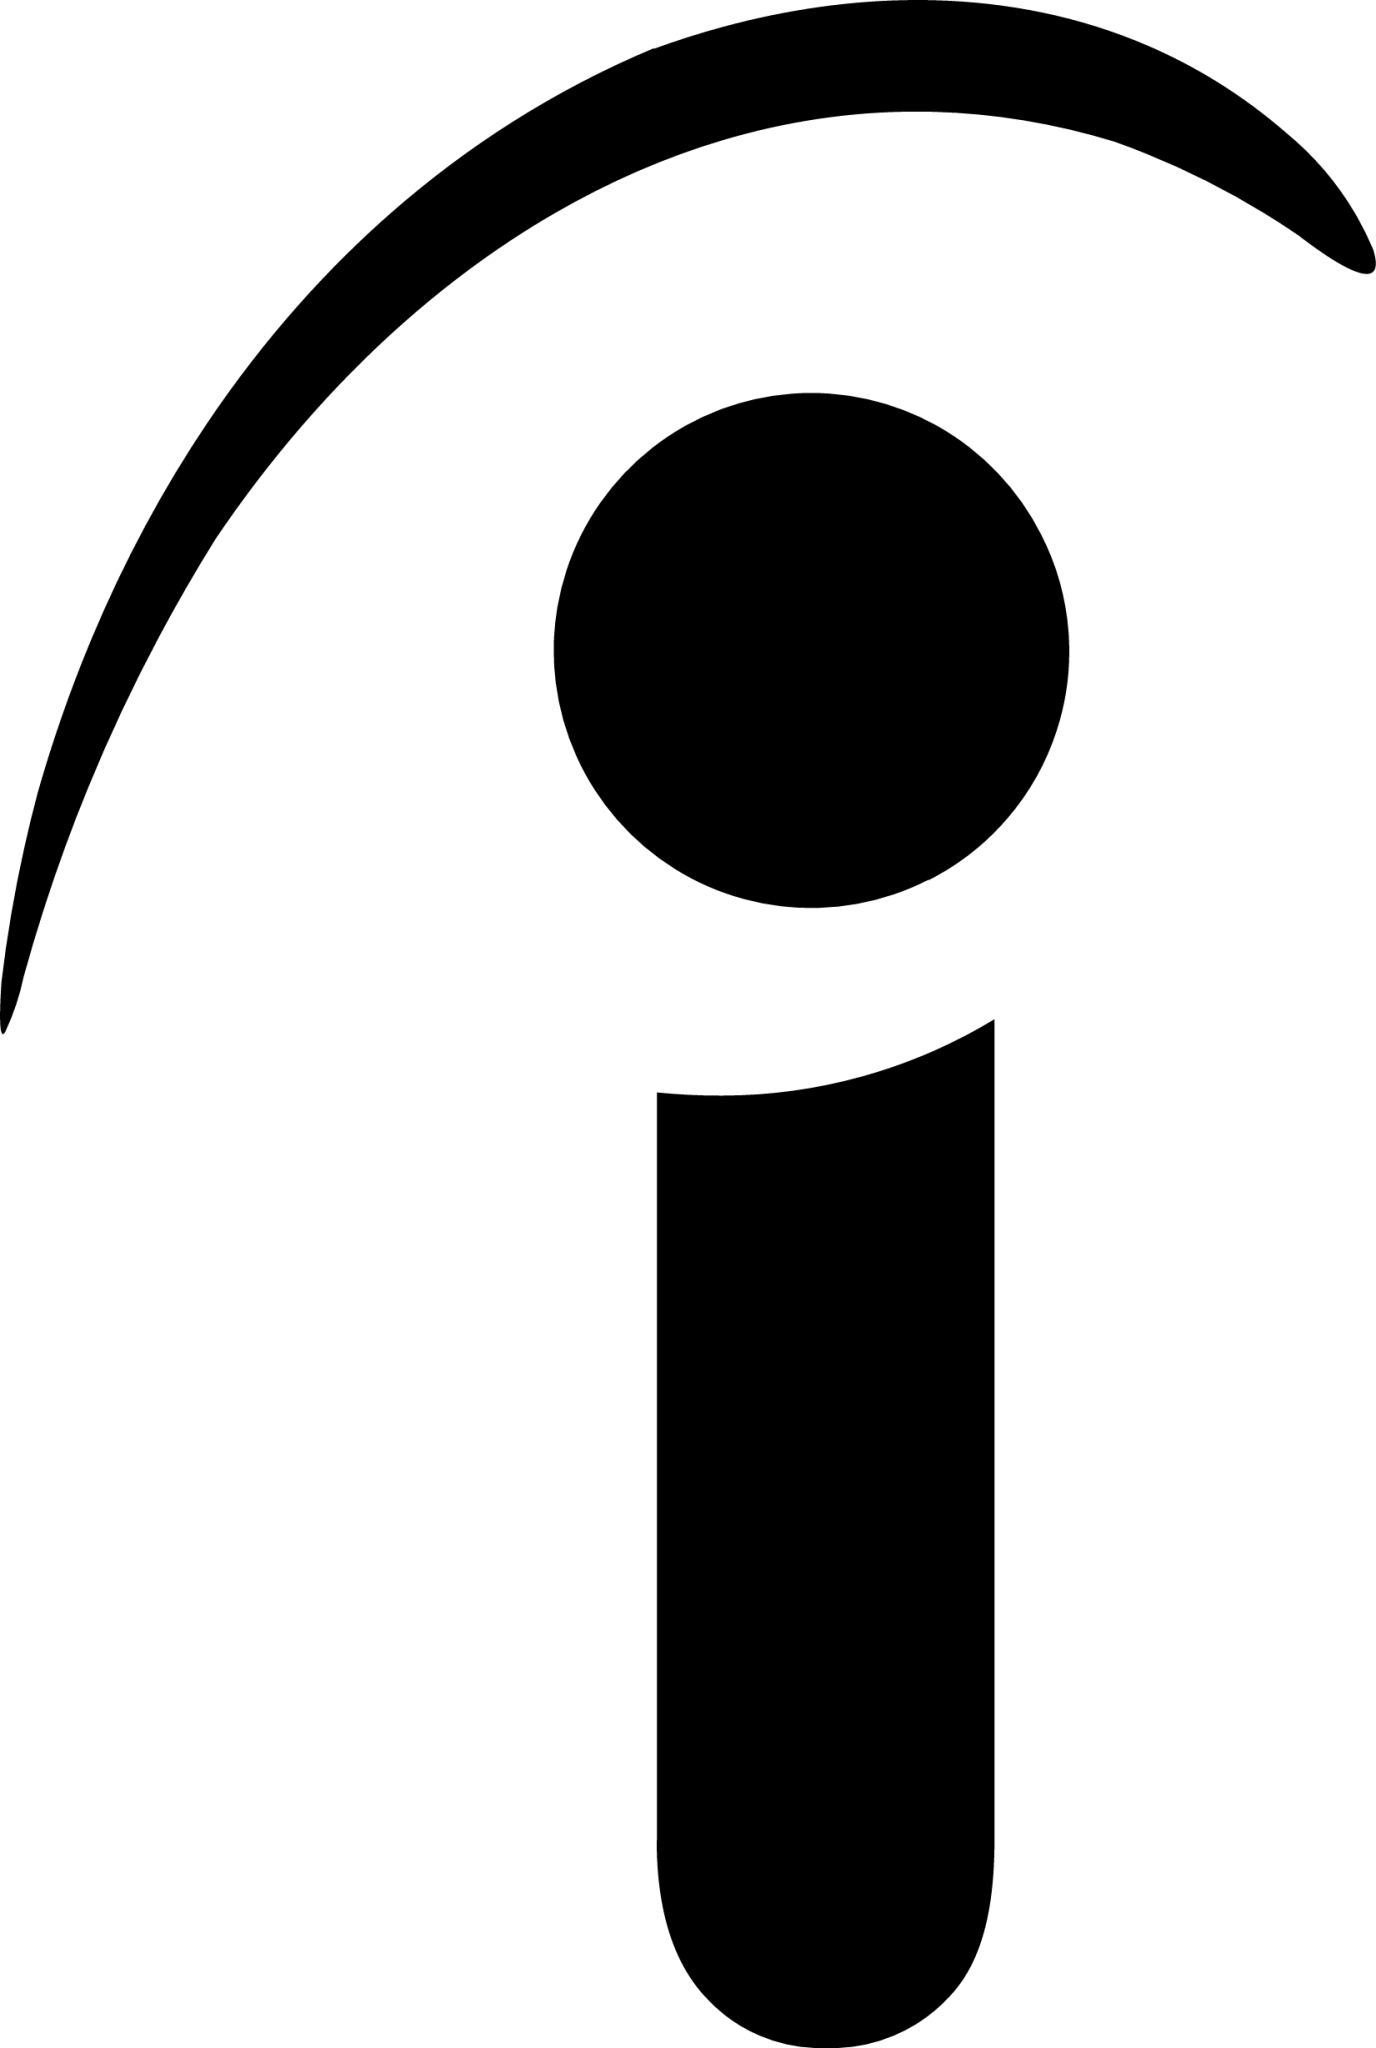
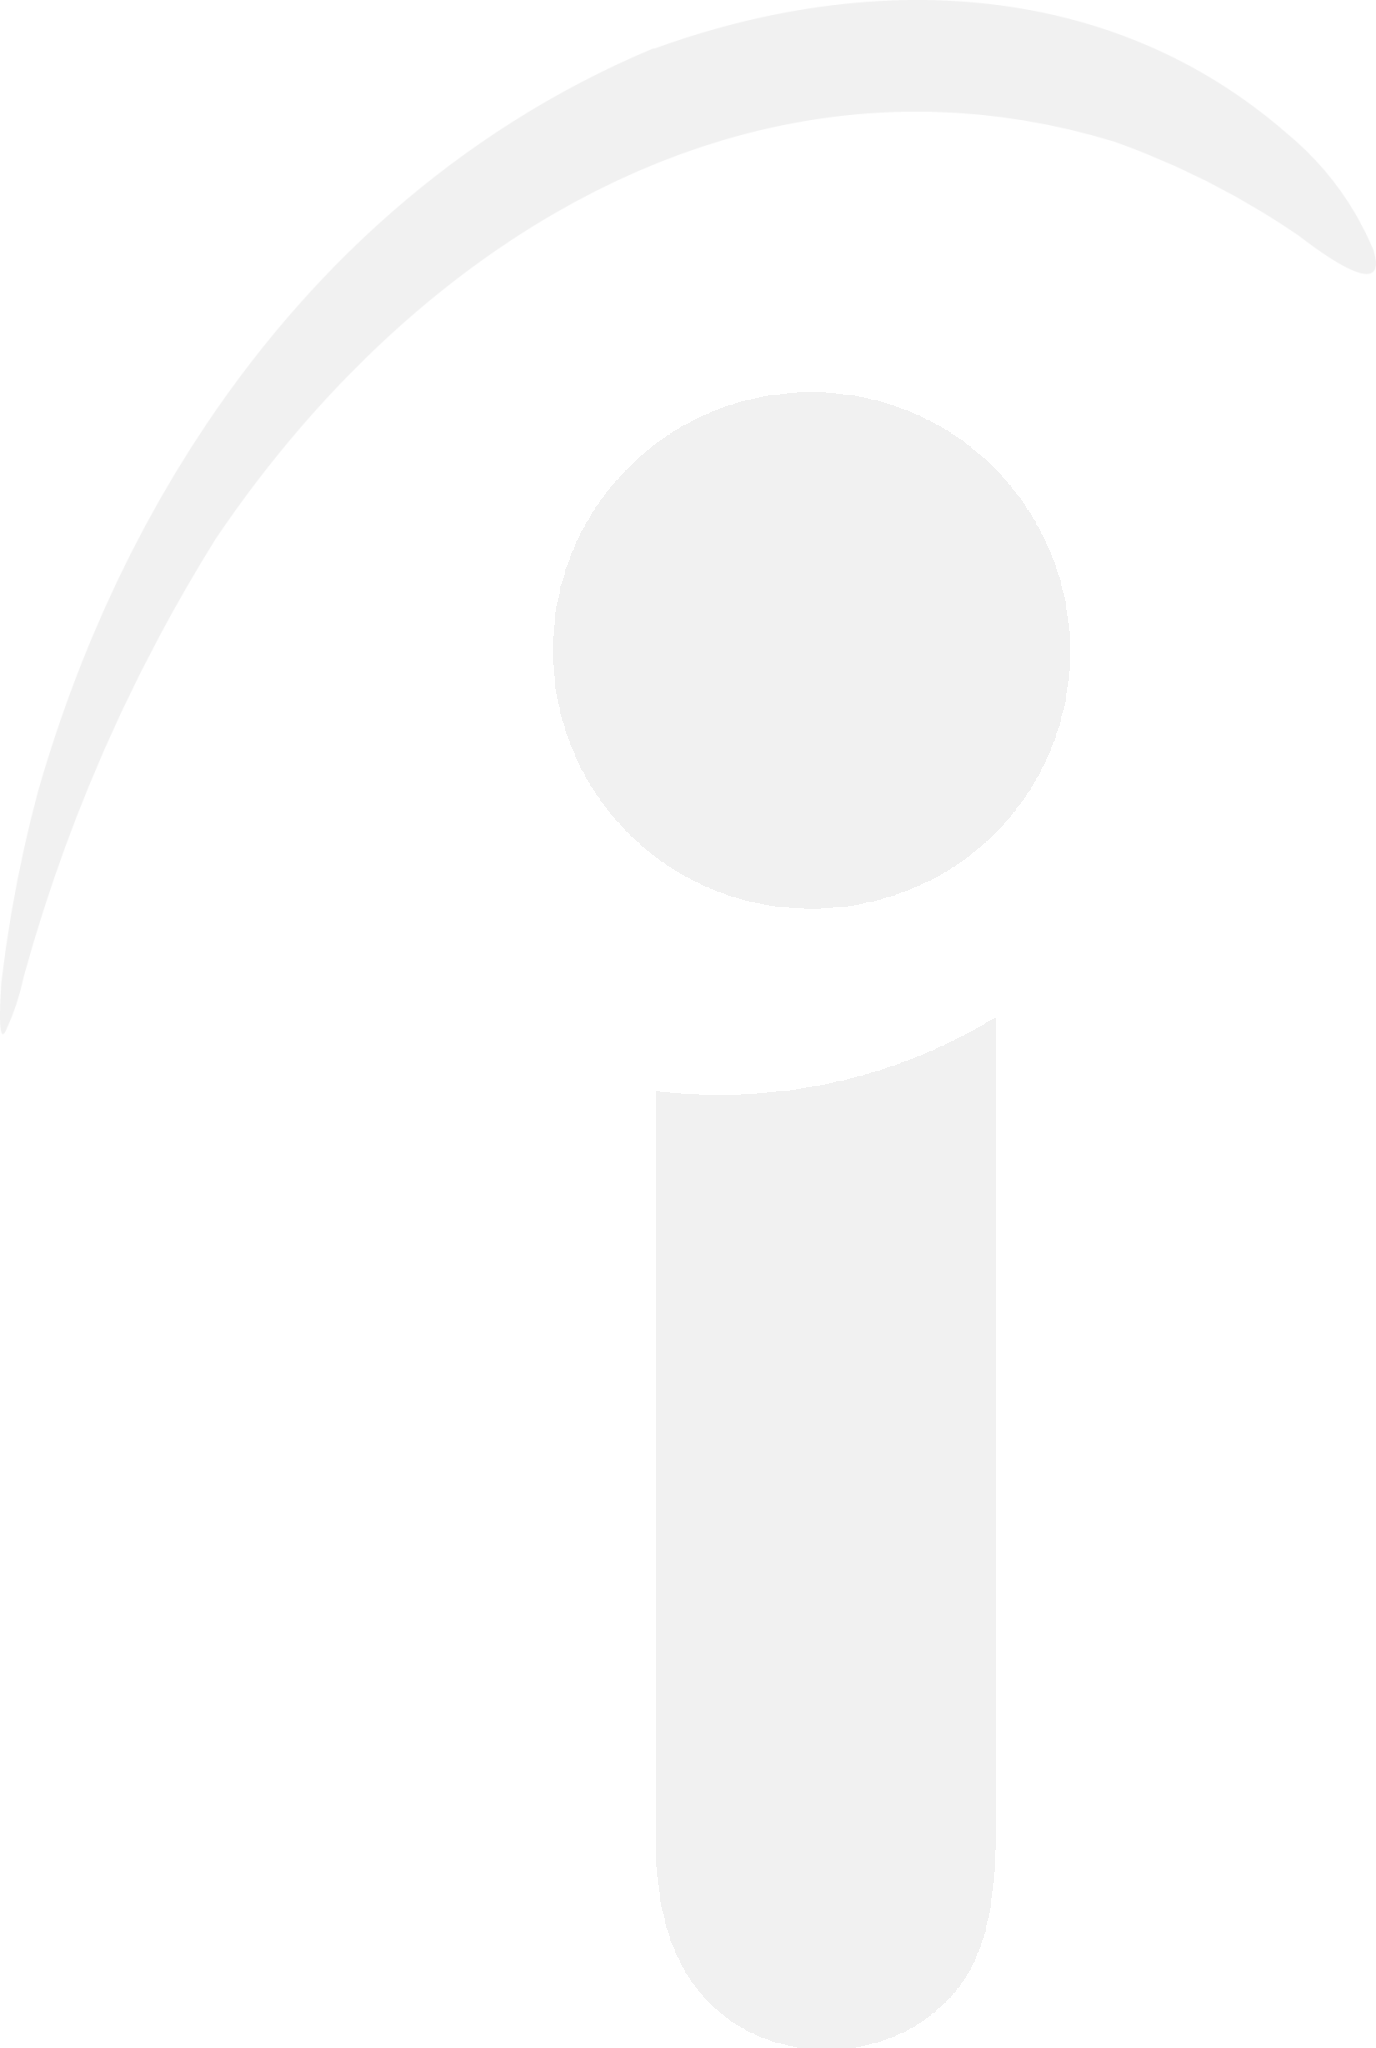
Changed colors of several elements and images to make the site more consistent

Changed region(s): [[0.4688, 0.5, 0.75, 1.0], [0.4062, 0.1875, 0.7812, 0.4688], [0.0, 0.0, 1.0, 0.5]]

diff --git a/src/components/Carousel/carousel.css b/src/components/Carousel/carousel.css
@@ -21,7 +21,7 @@
   align-items: center;
   justify-content: center;
   height: 50vh;
-  background: rgb(40,40,47);
+  background: rgb(30,30,37);
   color: white;
 }
 
@@ -29,7 +29,7 @@
   display: flex;
   justify-content: center;
   border: none;
-  background: rgb(40,40,47);
+  background: rgb(30,30,37);
   border-bottom-left-radius: 0.5rem;
   border-bottom-right-radius: 0.5rem;
 }
@@ -37,7 +37,7 @@
 .indicators>button {
   margin: 0.5rem;
   border: none;
-  background: rgb(50,50,57);
+  background: rgb(40,40,47);
   padding: 0 0.5rem;
   color: white;
 }

diff --git a/src/components/Contact/contact.css b/src/components/Contact/contact.css
@@ -35,7 +35,7 @@
   color: white;
   border: none;
   border-radius: 0.5rem;
-  background: rgb(40,40,47);
+  background: rgb(30,30,37);
 }
 
 .submitBtn {
@@ -55,10 +55,11 @@
   width: 3.5rem;
   height: 3.5rem;
   margin: 0 1rem;
-  border: none;
+  padding: 0.5rem;
+  border: 0.1rem solid white;
   border-radius: 50%;
   overflow: hidden;
-  background: white;
+  background: rgb(20,20,27);
   align-items: center;
   justify-content: center;
   display: flex;

diff --git a/src/components/Skills/skills.css b/src/components/Skills/skills.css
@@ -47,7 +47,7 @@
   margin: 1rem;
   padding: 1.5rem 2rem;
   border-radius: 0.5rem;
-  background: rgb(50,50,57);
+  background: rgb(40,40,47);
   justify-content: center;
   align-items: center;
   overflow: auto;

diff --git a/src/components/Footer/footer.css b/src/components/Footer/footer.css
@@ -1,7 +1,7 @@
 .footer {
   width: 100vw;
   height: 4rem;
-  background: rgb(40,40,47);
+  background: rgb(30,30,37);
   display: flex;
   align-items: center;
   justify-content: center;
